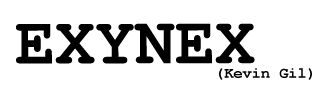
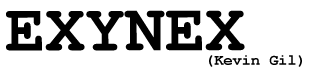
Update

Changed region(s): [[0.0, 0.1282, 0.9871, 0.8718]]

diff --git a/files/iframes/00002/index.html b/files/iframes/00002/index.html
@@ -116,7 +116,7 @@ html{/*background: url(http://instagram-static.s3.amazonaws.com/android/images/b
 </tr>
 <tr>
 <td><a target="_parent" href="http://exynex.github.com">
-<p style="text-align:left;"><img src="http://exynex.github.com/files/img/main-icon.png">
+<p style="text-align:left;"><img width="250px;" src="http://exynex.github.com/files/img/main-icon.png">
 </img></p></a>
 </td>
 <td>
